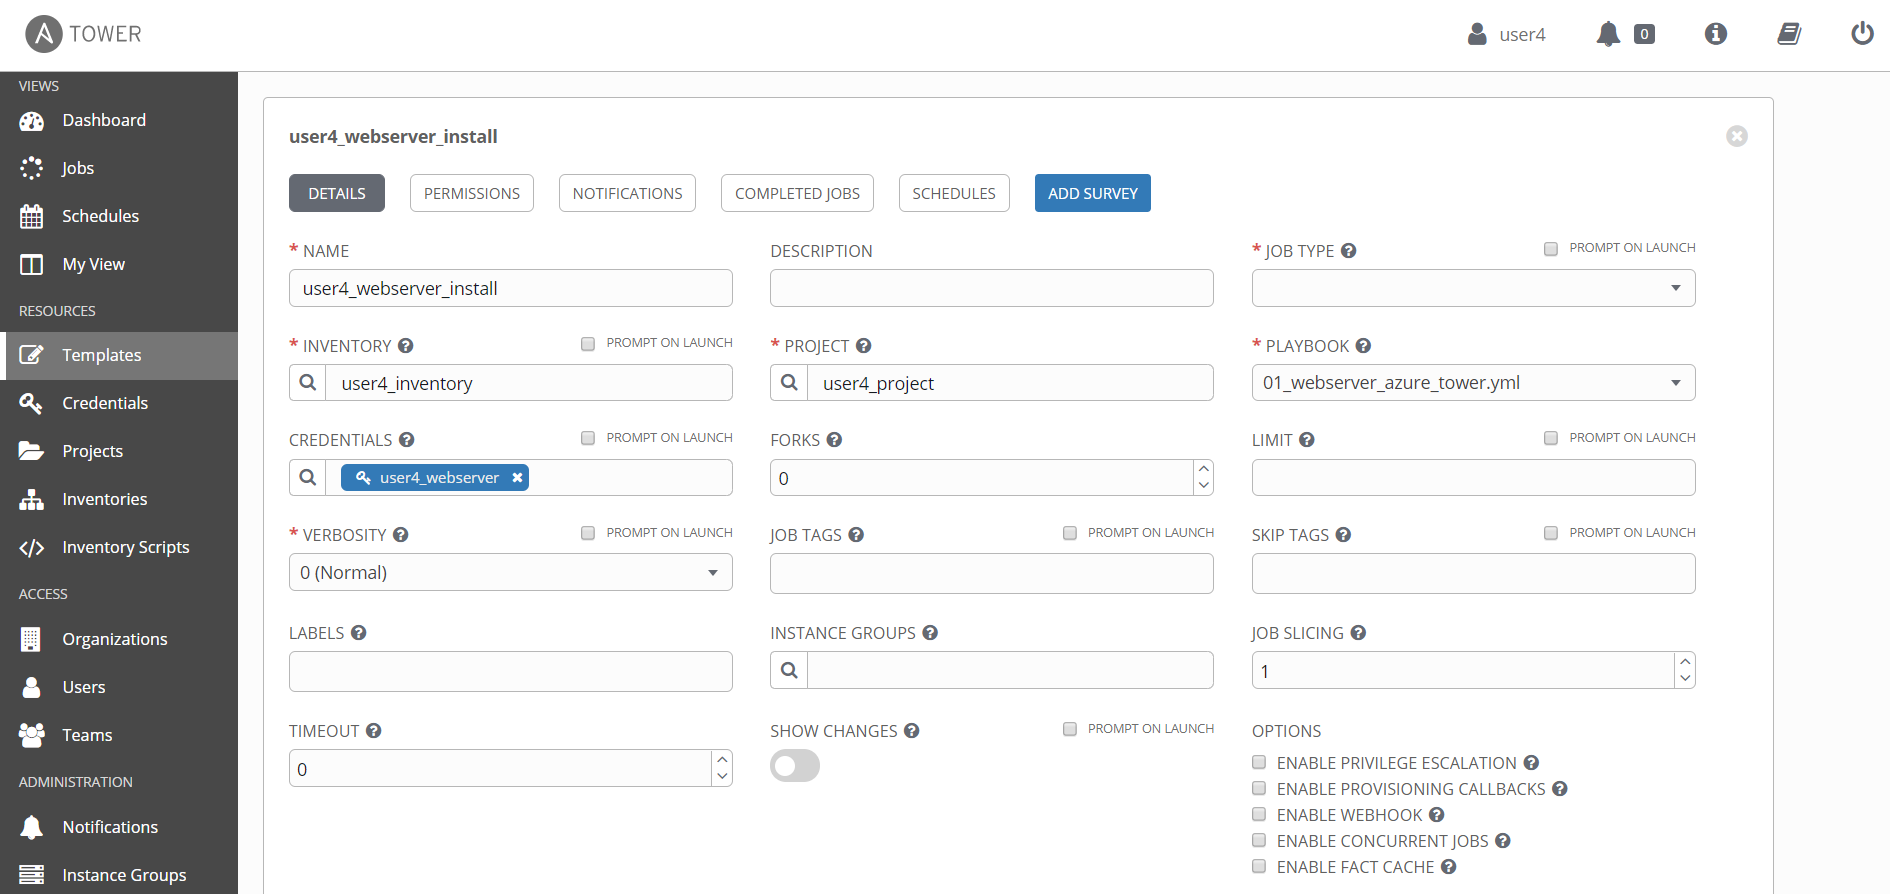
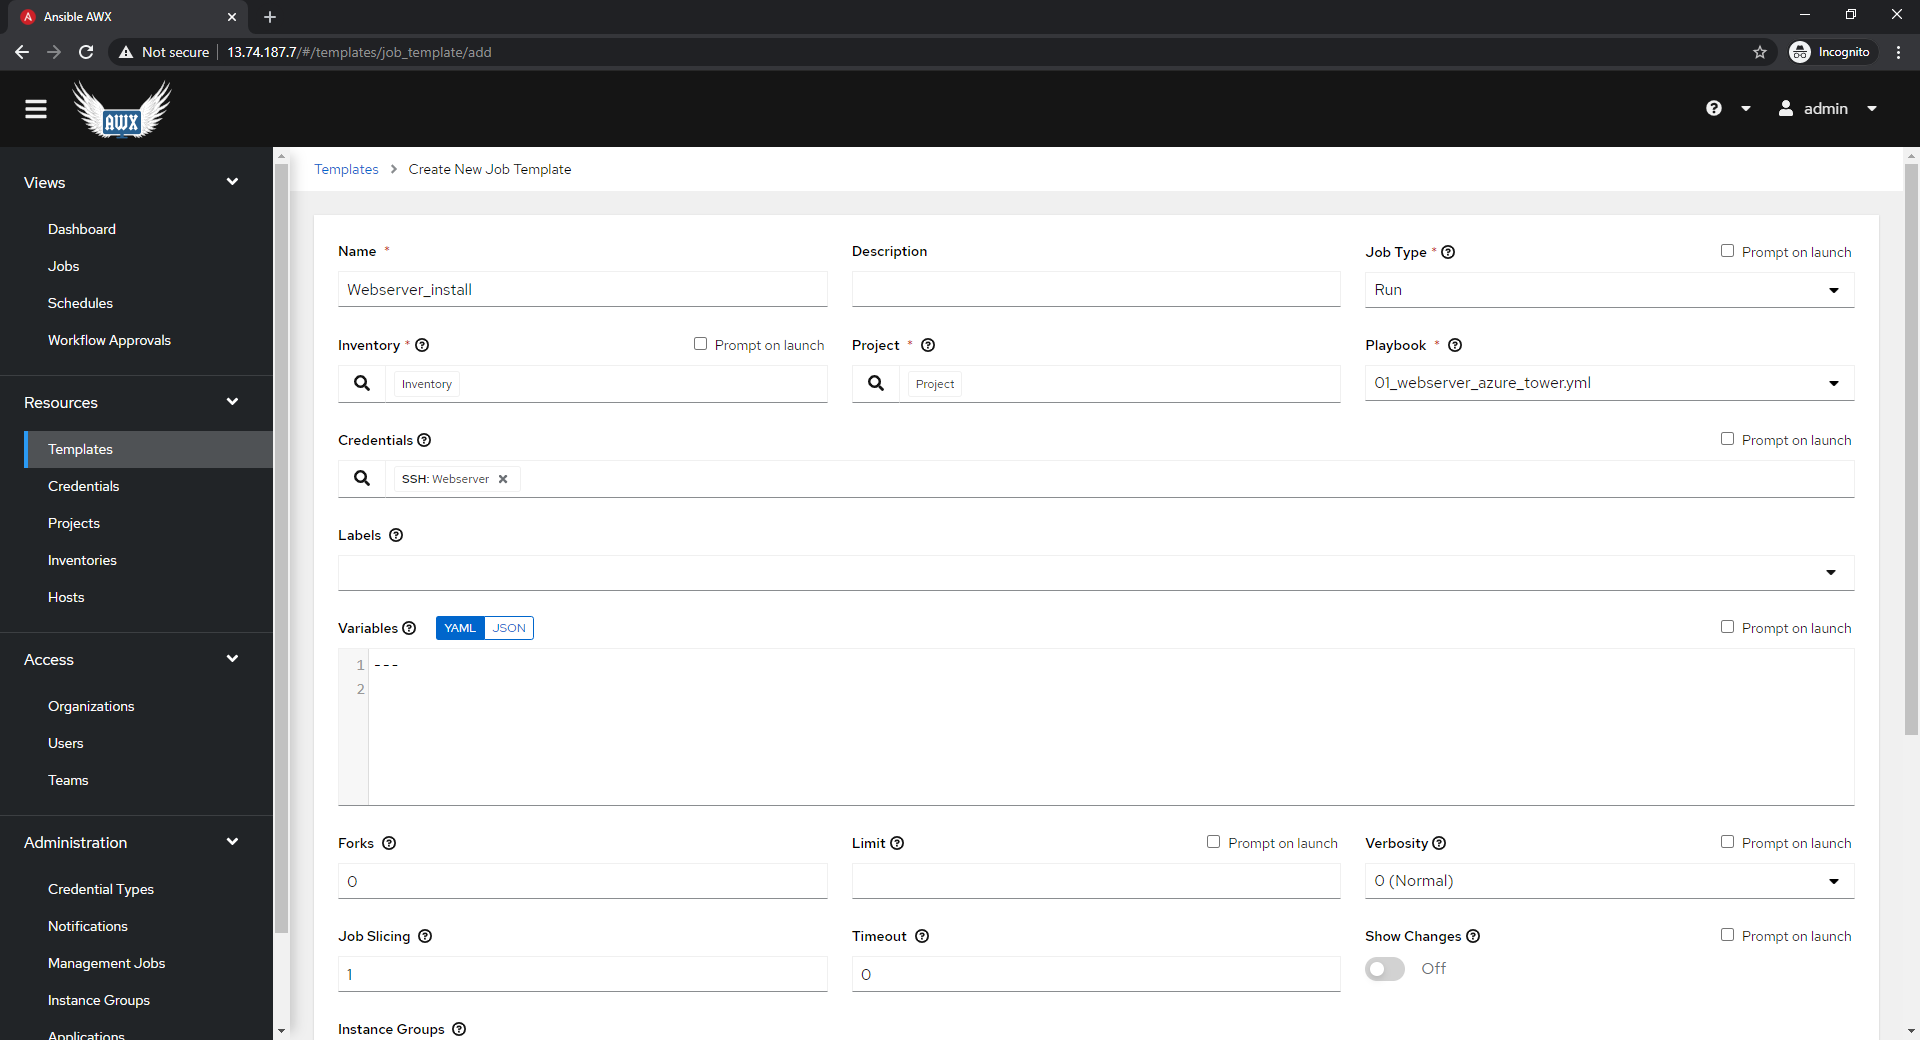
workflow part 1

diff --git a/lab08/lab8.md b/lab08/lab8.md
@@ -346,9 +346,9 @@ In VSCode
 
 Create a copy of 01_webserver_azure.yml -> 01_webserver_azure_tower.yml
 
-Change the hosts: to match your webuserx
+Change the hosts: to match your initials
 
-- hosts: tag_solution_webserver_webuserx
+- hosts: tag_solution_webserver_jesbe
 
 Remove both vars:
 
@@ -363,21 +363,21 @@ Go to your project and sync
 
 In the left pane, click Templates
 
-Click on the Green Plus sign to create a new Template select the __Job template__ type
+Click on Add to create a new Template select the __Add Job template__ type
 
 Type
 
-__Name:__ webserver_install
+__Name:__ Webserver_install
 
 __Job Type:__ Run
 
-__Inventory:__ Select your own inventory
+__Inventory:__ Select Inventory
 
-__Project:__ Select your own project
+__Project:__ Select Project
 
 __Playbook:__ 01_webserver_azure_tower.yml
 
-__Credentials:__ Select credential type "Machine" and your own credentials
+__Credentials:__ Select credential type "Machine" and Webserver
 
 Leave the rest as default and click __Save__
 
@@ -387,13 +387,13 @@ Leave the rest as default and click __Save__
 
 In the left pane, click Templates
 
-Click on the Green Plus sign to create a new Template select the __Workflow template__ type
+Click on Add to create a new Template select the __Add Workflow template__ type
 
-__Name:__ Userx
+__Name:__ Workflow
 
 __Organization:__ Default
 
-__Inventory:__ Select your own inventory
+__Inventory:__ Select Inventory
 
 Leave the rest as default and click __Save__
 
@@ -403,13 +403,17 @@ The window changes to the workflow Visualizer
 
 Click on Start
 
-__Select:__ Template
+__Select:__ Job Template
 
-__Select:__ resourcegroup
+__Select:__ Resourcegroup
 
-Press the __Select__ Button
+Press the __Save__ Button
 
 ![Alt text](pics/21_work_step1.png?raw=true "Create workflow template step 1")
+
+You will now see the first task in the workflow
+
+![Alt text](pics/21_work_step1_workflow.png?raw=true "Create workflow template step 1")
 
 Click on the green + on the new resourcegroup
 
